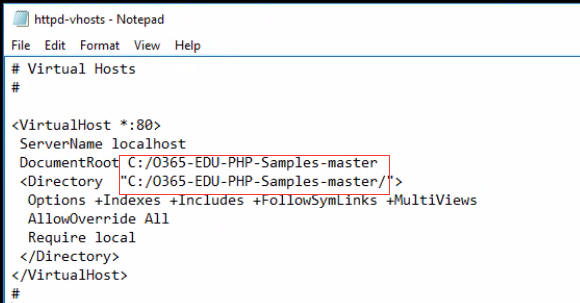
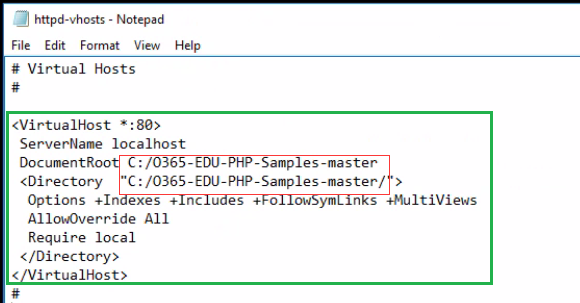
Update steps to run locally.

Changed region(s): [[0.0, 0.3564, 0.869, 0.9505]]

diff --git a/README.md b/README.md
@@ -151,17 +151,9 @@ Follow the steps below to run this sample on a windows server:
    - **BINGMAPKEY**: use the key of Bing Map you got earlier. This setting is optional.
    - **SOURCECODEREPOSITORYRL**: use the URL of this repository.
 
-6. Edit **httpd-vhosts.conf** under **C:\xampp\apache\conf\extra**. Add below conten
+6. Edit **httpd-vhosts.conf** under **C:\xampp\apache\conf\extra**. Add below content in green square and make the path in read square match to the path in step 3.
 
-   <VirtualHost *:80>
-    ServerName localhost
-    DocumentRoot C:/O365-EDU-PHP-Samples
-    <Directory  "C:/O365-EDU-PHP-Samples/">
-     Options +Indexes +Includes +FollowSymLinks +MultiViews
-     AllowOverride All
-     Require local
-    </Directory>
-   </VirtualHost>
+   ![httpdvhost](/Images/httpdvhost.png)
 
 7. Restart xmapp server and visit http://localhost. 
 
